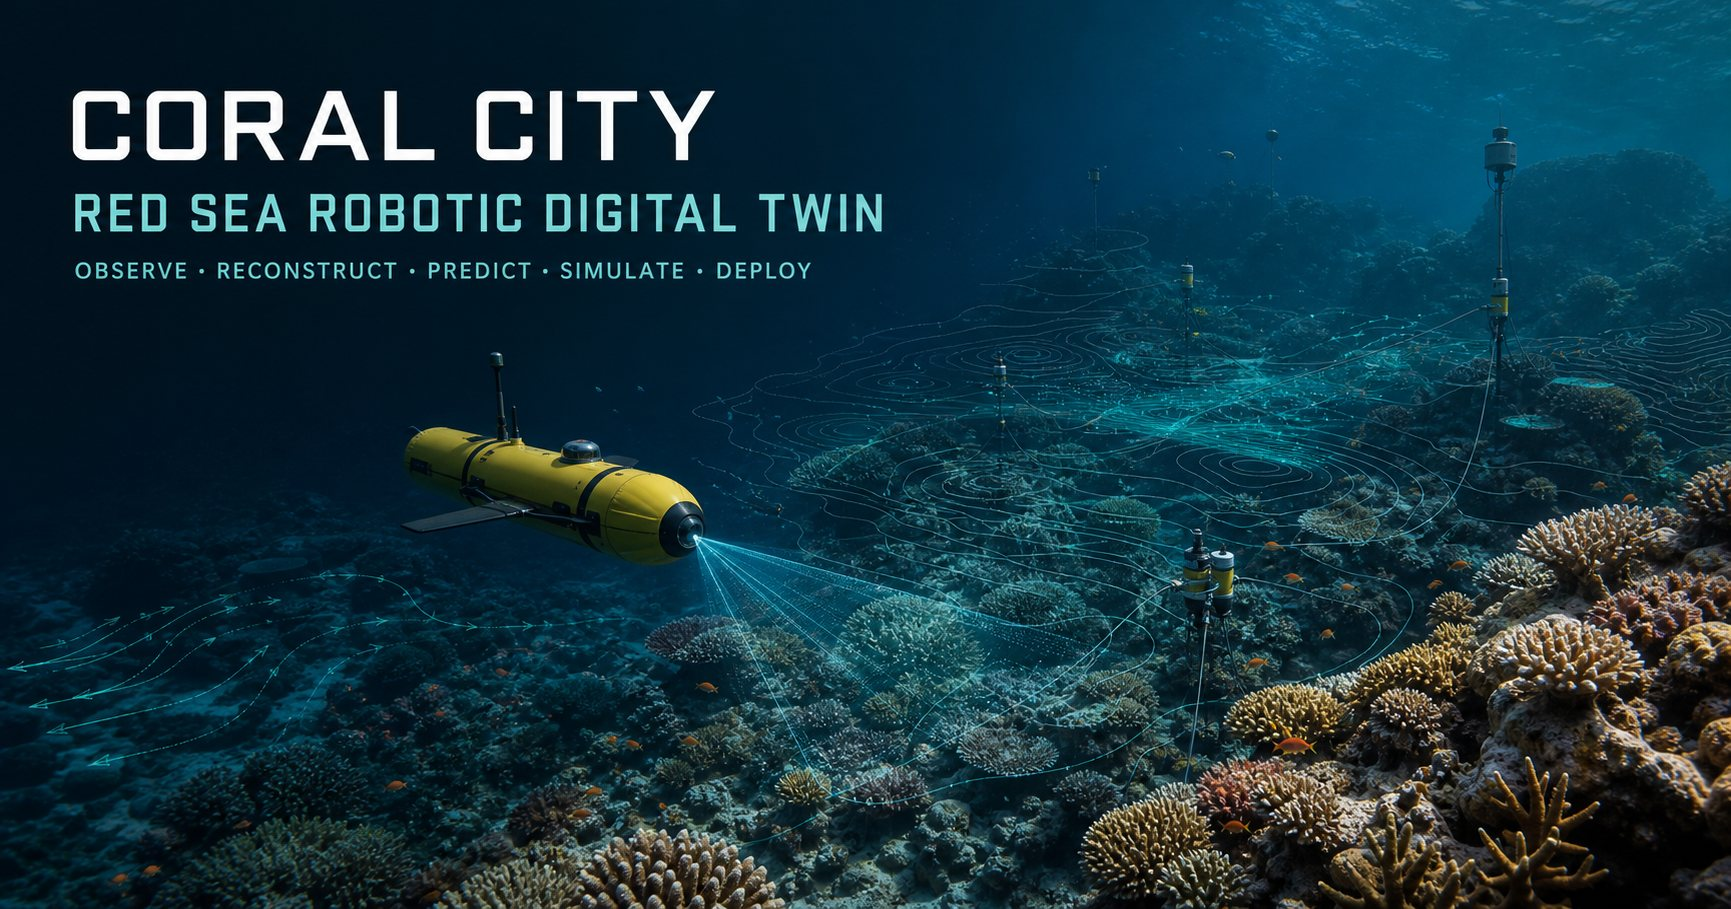
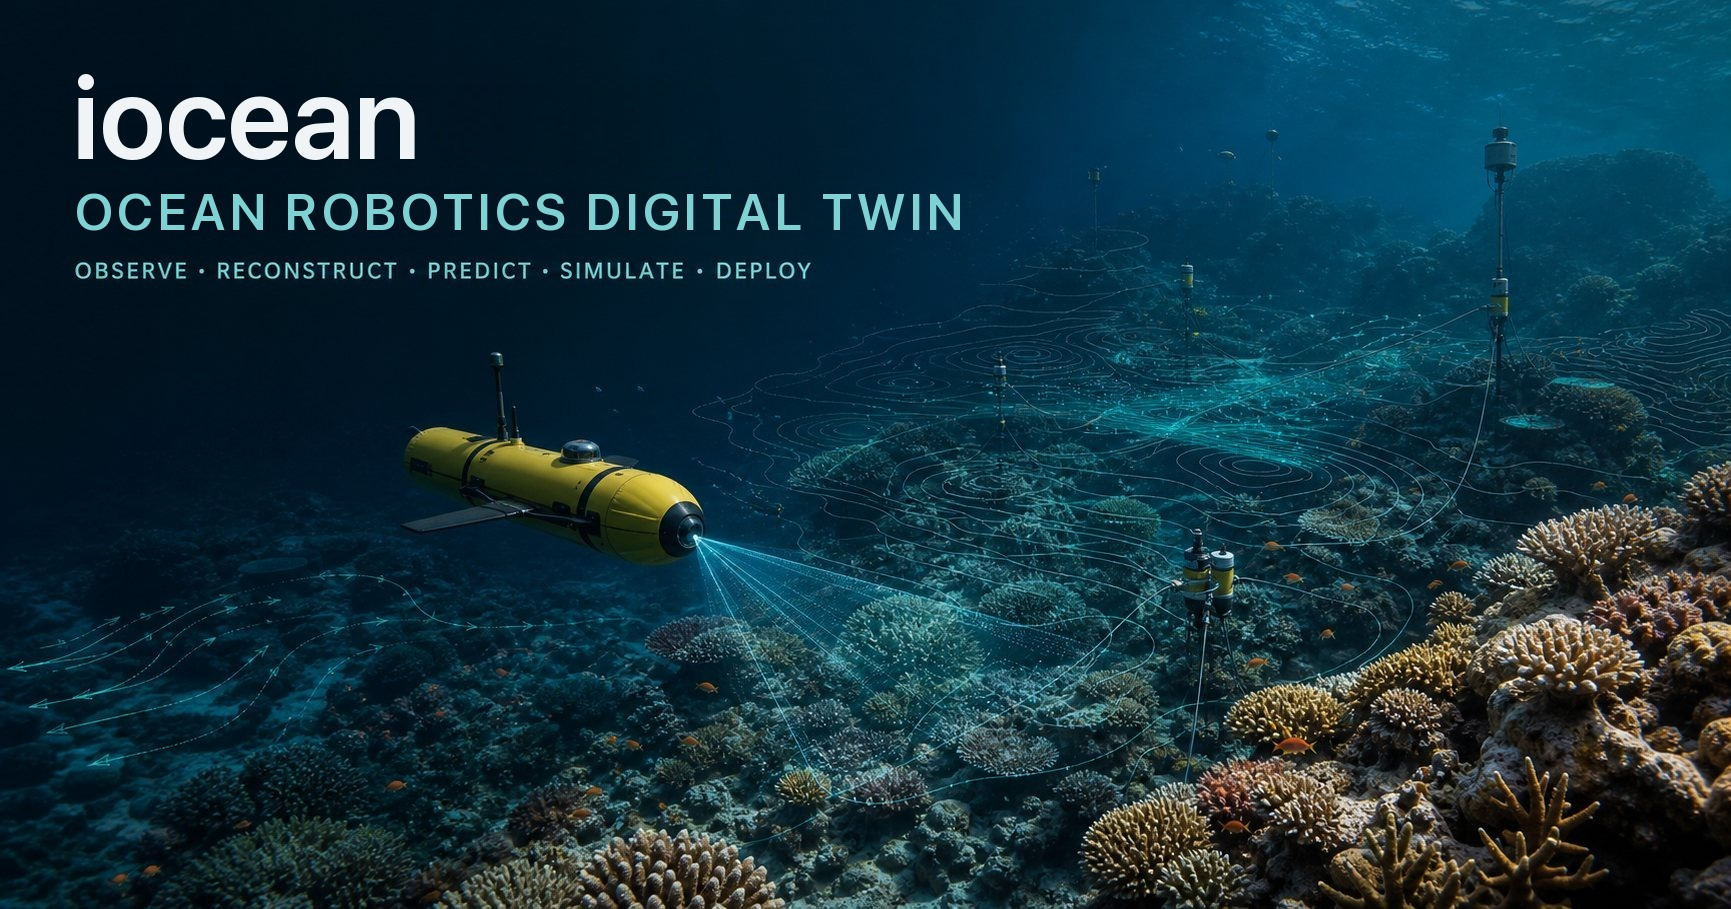
the dive's picture no longer goes black, every side panel and controller card folds, and the loading picture says iocean
The H.264 decoder was handed the canvas once, when the dive said hello; enlarging a pane re-mounts that canvas, and the decoder went on drawing into the detached one while the frame count climbed. It now asks for the current canvas each frame, and falls back to pictures if what it draws stays pure black. Panels fold by their title and controller cards by their header, by hand only, remembered on the machine. The boot picture says iocean and OCEAN ROBOTICS DIGITAL TWIN, not CORAL CITY and the Red Sea alone.

Changed region(s): [[0.0312, 0.0924, 0.4367, 0.1848], [0.0312, 0.2156, 0.5615, 0.2772]]

diff --git a/apps/client/src/renderer/screens/instruments.tsx b/apps/client/src/renderer/screens/instruments.tsx
@@ -9,7 +9,7 @@
 // worse than one that has fewer of them, because the whole purpose of the thing
 // is to be believed about what happened.
 
-import { useEffect, useRef } from "react";
+import { useEffect, useRef, useState } from "react";
 
 import { HOW_TO } from "../catalog/tasks.js";
 import type { Manoeuvre } from "../parts/Plan.js";
@@ -340,12 +340,27 @@ export function Instruments({ reading, topics, held, history, frames, onLeave, o
  * once, and the reading that comes back is the controller's, so what the
  * slider shows is what the vehicle is actually flying on.
  */
+const FOLDED = "iocean.controllers.folded";
+
 function ControllerPanel({ helm, onTune, onHoldHere, onEngage }: {
   helm: Helm | undefined;
   onTune: (controller: string, name: string, value: number) => void;
   onHoldHere: () => void;
   onEngage: (controller: string) => void;
 }): React.JSX.Element {
+  // Which cards somebody folded, by their own hand and only by it: folding
+  // on a hand-over is exactly what the note below forbids. Remembered here.
+  const [folded, setFolded] = useState<Set<string>>(() => {
+    try { return new Set(JSON.parse(localStorage.getItem(FOLDED) ?? "[]") as string[]); } catch { return new Set(); }
+  });
+  const fold = (name: string): void => {
+    setFolded((was) => {
+      const next = new Set(was);
+      if (next.has(name)) next.delete(name); else next.add(name);
+      try { localStorage.setItem(FOLDED, JSON.stringify([...next])); } catch { /* still folds */ }
+      return next;
+    });
+  };
   if (helm === undefined) return <p className="none">The vehicle has not said who flies it.</p>;
   // Nothing here changes shape with who is flying. Every controller is shown
   // the same way all the time — its rows, its sliders — and a hand-over moves
@@ -358,13 +373,15 @@ function ControllerPanel({ helm, onTune, onHoldHere, onEngage }: {
         const flying = one.name === helm.flying;
         const status = one.status ?? {};
         return (
-          <section key={one.name} className={`controller${flying ? " flying" : ""}`}>
-            <header>
+          <section key={one.name} className={`controller${flying ? " flying" : ""}${folded.has(one.name) ? " folded" : ""}`}>
+            <header role="button" tabIndex={0} aria-expanded={!folded.has(one.name)} onClick={() => fold(one.name)}
+                    onKeyDown={(e) => { if (e.key === "Enter") fold(one.name); }}
+                    title={folded.has(one.name) ? "Show what it is and what can be moved" : "Fold it to its name"}>
               <span className="dot" />
-              <strong>{one.name}</strong>
+              <strong><span className="chevron" aria-hidden>{folded.has(one.name) ? "▸" : "▾"}</span>{one.name}</strong>
               <em>{flying ? "flying" : one.kind}</em>
             </header>
-            <p className="says">{one.says}</p>
+            {folded.has(one.name) ? null : <p className="says">{one.says}</p>}
             {one.name !== "helm" ? (
               <div className="station">
                 <span>{flying ? "has the vehicle"
@@ -382,7 +399,7 @@ function ControllerPanel({ helm, onTune, onHoldHere, onEngage }: {
                 <button className="quiet small" onClick={onHoldHere}>Hold here</button>
               </div>
             ) : null}
-            {one.parameters.map((p) => (
+            {folded.has(one.name) ? null : one.parameters.map((p) => (
               <label key={p.name} className="tunable" title={p.says}>
                 <span>{p.name}</span>
                 <input type="range" min={p.low} max={p.high} step={(p.high - p.low) / 200}
@@ -402,18 +419,34 @@ function fmt(value: unknown, digits = 2): string {
   return typeof value === "number" ? value.toFixed(digits) : "—";
 }
 
+/**
+ * A section of the dive's side panels, folded by its title. Whether each is
+ * open is remembered on this machine, so the panels somebody does not use stay
+ * out of the way on the next dive too.
+ */
 function Panel({ name, note, children }: {
   name: string;
   note?: string;
   children: React.ReactNode;
 }): React.JSX.Element {
+  const key = `iocean.panel.${name}`;
+  const [open, setOpen] = useState<boolean>(() => {
+    try { return localStorage.getItem(key) !== "closed"; } catch { return true; }
+  });
+  const toggle = (): void => {
+    setOpen((was) => {
+      try { localStorage.setItem(key, was ? "closed" : "open"); } catch { /* not kept; still folds */ }
+      return !was;
+    });
+  };
   return (
-    <section className="panel-box">
-      <h3>
-        {name}
+    <section className={open ? "panel-box" : "panel-box folded"}>
+      <h3 role="button" tabIndex={0} aria-expanded={open} onClick={toggle}
+          onKeyDown={(e) => { if (e.key === "Enter" || e.key === " ") { e.preventDefault(); toggle(); } }}>
+        <span className="fold-name"><span className="chevron" aria-hidden>{open ? "▾" : "▸"}</span>{name}</span>
         {note === undefined ? null : <span>{note}</span>}
       </h3>
-      <div className="body">{children}</div>
+      {open ? <div className="body">{children}</div> : null}
     </section>
   );
 }

diff --git a/apps/client/src/renderer/platform/video.ts b/apps/client/src/renderer/platform/video.ts
@@ -26,9 +26,21 @@ export interface Video {
   said(): { frames: number; waited: number; bytes: number };
 }
 
-export function decodeInto(canvas: HTMLCanvasElement, onFrame: () => void): Video {
-  const ink = canvas.getContext("2d");
-  let started = false;         // a stream must begin at a keyframe or not at all
+/**
+ * Decodes into whichever canvas is on the page *now*, asked of `target` each
+ * frame. It was handed the element itself, once, when the dive said hello —
+ * and React replaces that element whenever the layout around it changes, so
+ * the decoder went on drawing every frame into a canvas nobody could see while
+ * the one on the page stayed black, and the frame count kept climbing.
+ */
+export function decodeInto(target: () => HTMLCanvasElement | null, onFrame: () => void,
+                           onBlack?: () => void): Video {
+  let started = false;
+  // Frames that came out of the decoder and drew nothing: three looks at the
+  // middle of the picture, a second apart, all of them pure black, and the
+  // watcher is told — a decoder that runs and draws black is worse than none,
+  // because it looks like a dive with the lights off.
+  let blackLooks = 0;         // a stream must begin at a keyframe or not at all
   let frames = 0;
   let waited = 0;
   let bytes = 0;
@@ -36,10 +48,19 @@ export function decodeInto(canvas: HTMLCanvasElement, onFrame: () => void): Vide
   const decoder = new VideoDecoder({
     output: (frame) => {
       try {
-        if (ink !== null) {
+        const canvas = target();
+        const ink = canvas?.getContext("2d") ?? null;
+        if (canvas !== null && ink !== null) {
           if (canvas.width !== frame.displayWidth) canvas.width = frame.displayWidth;
           if (canvas.height !== frame.displayHeight) canvas.height = frame.displayHeight;
           ink.drawImage(frame, 0, 0);
+          if (onBlack !== undefined && frames % 30 === 29) {
+            const middle = ink.getImageData(Math.floor(canvas.width / 2) - 4, Math.floor(canvas.height / 2) - 4, 8, 8).data;
+            let lit = false;
+            for (let i = 0; i < middle.length; i += 4) if (middle[i]! + middle[i + 1]! + middle[i + 2]! > 0) { lit = true; break; }
+            blackLooks = lit ? 0 : blackLooks + 1;
+            if (blackLooks >= 3) { blackLooks = 0; onBlack(); }
+          }
         }
         frames += 1;
         onFrame();

diff --git a/apps/client/src/renderer/styles.css b/apps/client/src/renderer/styles.css
@@ -470,6 +470,12 @@ input:focus { border-color: var(--coral); }
   background: rgba(19, 37, 58, 0.5);
 }
 .panel-box h3 span { text-transform: none; letter-spacing: 0; color: var(--dim); font-weight: 400; }
+.panel-box h3 { cursor: pointer; }
+.panel-box h3:hover { color: var(--ink, #dbe7f3); }
+.panel-box h3 .fold-name { display: inline-flex; align-items: baseline; gap: 6px; color: inherit;
+  text-transform: uppercase; letter-spacing: 0.09em; font-weight: 600; }
+.panel-box h3 .chevron { display: inline-block; width: 0.8em; color: var(--dim); }
+.panel-box.folded h3 { border-bottom: none; }
 .panel-box .body { padding: 11px 12px 13px; }
 .none { margin: 0; color: var(--dim); font-size: 12.5px; }
 
@@ -1609,3 +1615,7 @@ button.small { padding: 4px 9px; font-size: 11px; border-radius: 7px; }
 .ledger .row.token .token-prefix { color: var(--dim); font-size: 12px; }
 .ledger .row.token.revoked { opacity: 0.5; }
 .ledger .row.token.revoked strong { text-decoration: line-through; }
+
+/* A controller card folds by its header, by hand. */
+.controller header { cursor: pointer; }
+.controller header .chevron { display: inline-block; width: 0.9em; color: var(--dim); font-weight: 400; }

diff --git a/apps/client/src/renderer/screens/Water.tsx b/apps/client/src/renderer/screens/Water.tsx
@@ -213,7 +213,12 @@ export function Water({ platform, stream, onSurface }: {
           const offered = (said as unknown as { video?: { codec?: string | null } }).video;
           if (video.current === undefined && offered?.codec === "h264" && canDecode()
               && canvas.current !== null) {
-            video.current = decodeInto(canvas.current, () => setFrames((n) => n + 1));
+            video.current = decodeInto(() => canvas.current, () => setFrames((n) => n + 1), () => {
+              // Black out of the decoder: pictures instead, which draw.
+              video.current?.close();
+              video.current = undefined;
+              socket?.send(JSON.stringify({ want: "jpeg" }));
+            });
             socket?.send(JSON.stringify({ want: "h264" }));
           }
           return;
